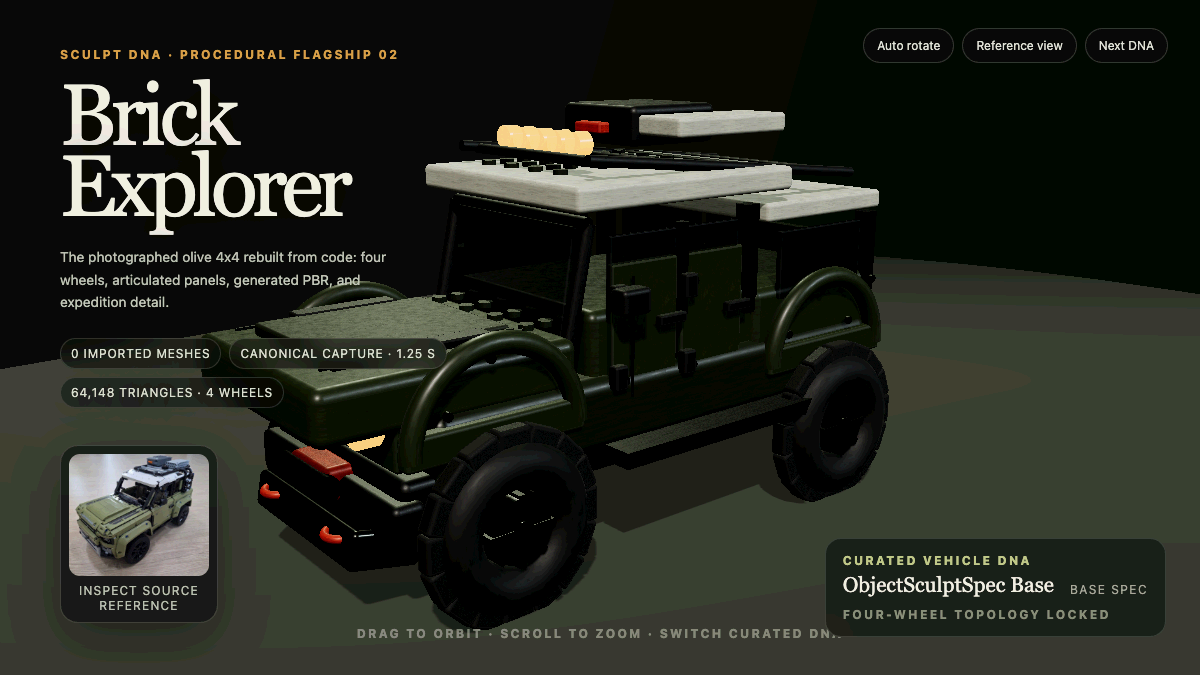
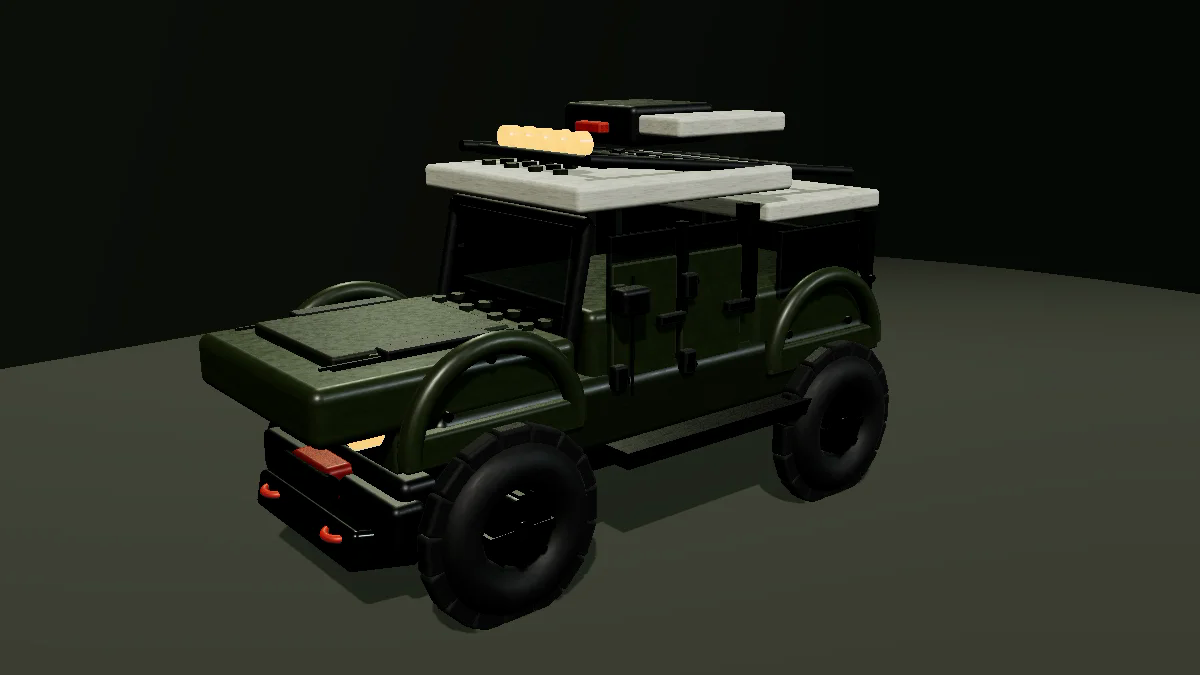
fix: stabilize Brick hero capture evidence
Derive the public hero image from the frozen final evidence frame and correct transient height-field provenance without publishing unstable timing ranges.

Copilot-Session: d4fc2342-03dc-4357-9270-eddefb107268

diff --git a/README.md b/README.md
@@ -115,7 +115,7 @@ Brick is now a second evidence-backed flagship. Seoul remains an explicit previe
 
 The final hard-surface flagship preserves exactly four correctly oriented wheels, the photographed olive hood/cabin/rear-body proportions, light roof, black structure, glazing, arches, suspension, tire treads, studs, fasteners, roof cargo, lamps, and warm recovery hardware. Its three curated configurations complete the base-sculpt and per-variant visual gates while preserving action-ready topology.
 
-The committed installed-Chrome capture measured **752–834ms generation**, **63,564–68,324 instance-weighted geometry triangles**, **126 scene drawables**, **387 full-frame WebGL calls** including shadow/transmission/output passes, **512px independent PBR channels**, and **0 imported meshes**.
+The committed installed-Chrome manifest records per-run generation timings plus **63,564–68,324 instance-weighted geometry triangles**, **126 scene drawables**, **387 full-frame WebGL calls** including shadow/transmission/output passes, **512px independent PBR channels**, and **0 imported meshes**.
 
 [Evidence-backed base spec](examples/brick-offroad/object-sculpt-spec.json) ·
 [Production variant manifest](examples/showcase/variants/brick/sculpt-dna-manifest.json) ·

diff --git a/examples/brick-offroad-hero/README.md b/examples/brick-offroad-hero/README.md
@@ -24,7 +24,7 @@ Query parameters:
 
 The page imports `brick-output/createBrickOffroad.js`, the same zero-import factory intended for application reuse. Its live runtime maps are returned outside `userData`; only serializable IDs and deterministic provenance are stored on the root.
 
-The committed capture measured 752–834ms generation, 63,564–68,324 instance-weighted geometry triangles, 126 scene drawables, and 387 full-frame WebGL calls including shadow, transmission, scene, and output passes. All configurations retain independent 512px albedo, roughness, normal, and AO textures; a transient scalar height field only generates the normal and AO pixels and is not retained or bound. Every configuration keeps exactly four wheels, equal tread cadence per wheel, and zero imported meshes. The measured full-frame count remains below the 400-call ObjectSculptSpec budget.
+The committed manifest records per-run generation timings, 63,564–68,324 instance-weighted geometry triangles, 126 scene drawables, and 387 full-frame WebGL calls including shadow, transmission, scene, and output passes. All configurations retain independent 512px albedo, roughness, normal, and AO textures; a transient scalar height field only generates normal pixels, while AO comes independently from cavity and dirt fields. The height field is not retained or bound. Every configuration keeps exactly four wheels, equal tread cadence per wheel, and zero imported meshes. The measured full-frame count remains below the 400-call ObjectSculptSpec budget.
 
 ## Regenerate media and evidence
 